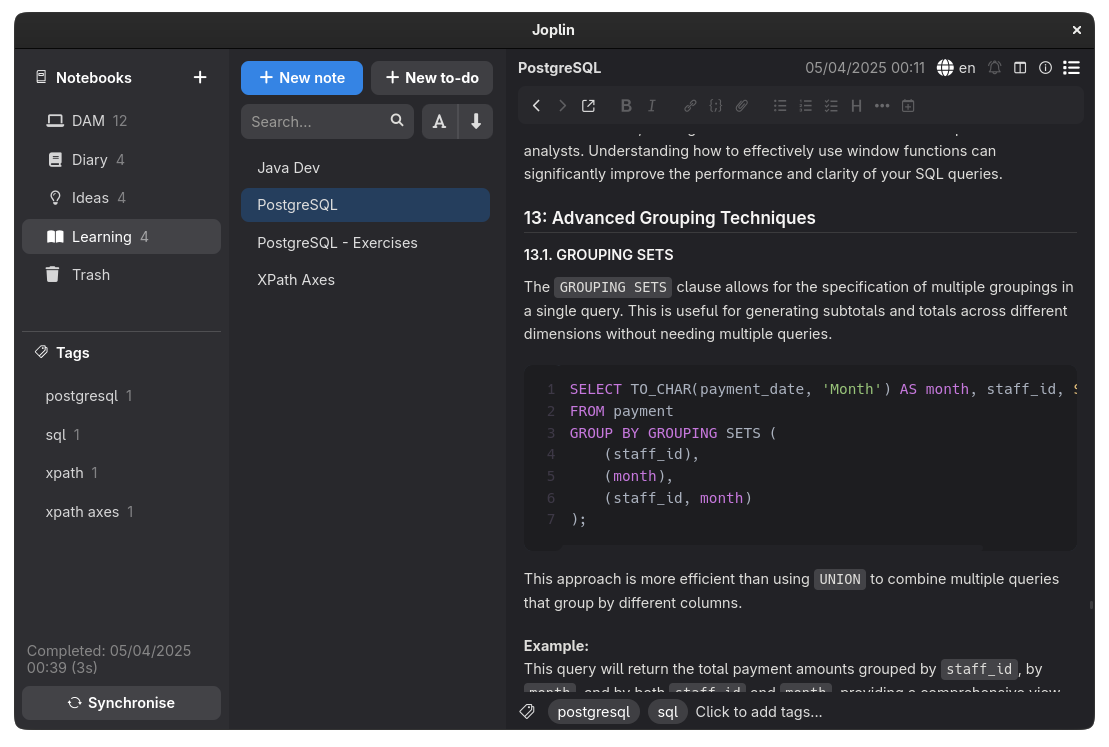
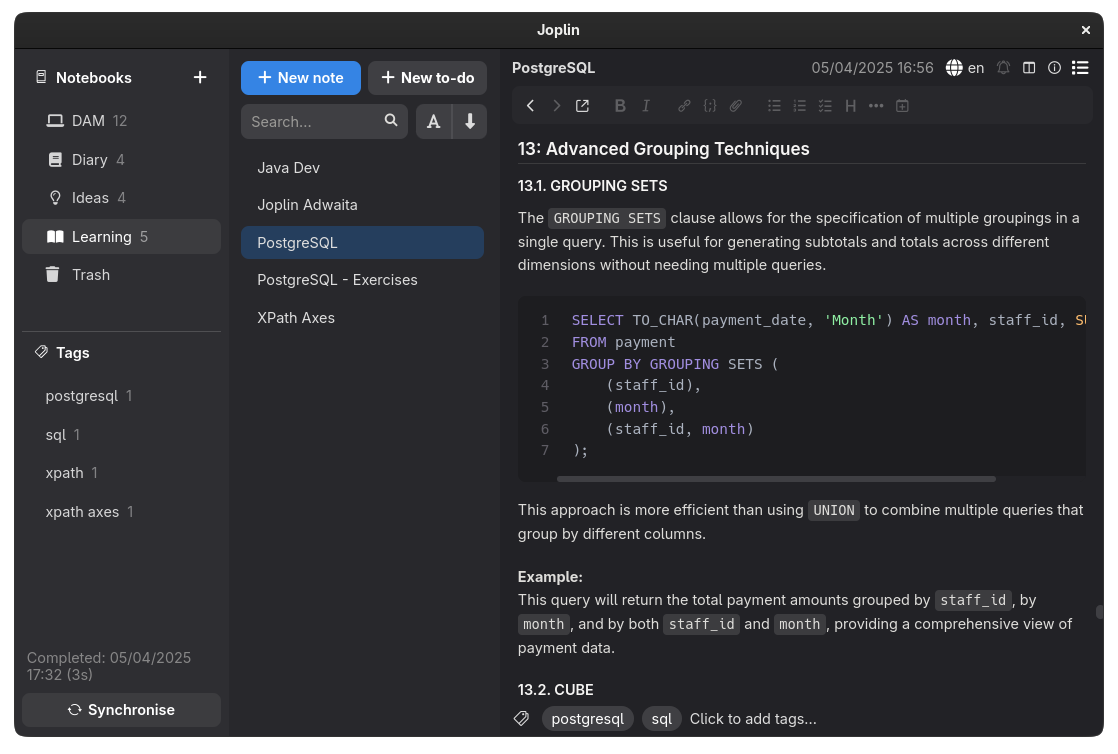
Apply colors to elements in code blocks. Fix scrollbar visibility issues

diff --git a/userchrome.css b/userchrome.css
@@ -3,11 +3,13 @@
 :root {
     /* Colors */
     --blue-1: #99c1f1;
+    --teal-1: #94d9cb;
     --green-1: #8ff0a4;
     --yellow-1: #f9f06b;
     --orange-1: #ffbe6f;
     --red-1: #f66151;
     --purple-1: #dc8add;
+    --lavender-1: #a18ee0;
 
     --light-1: #ffffff;
     --light-2: #f6f5f4;
@@ -56,8 +58,8 @@
 
     --btn-separator-color: hsl(240, 2.5%, 31.37%);
 
-    --btn-bg-color-light: hsl(240, 2.9%, 27.06%);
-    --btn-bg-color-light-hover: hsl(240, 2.9%, 24.06%);
+    --btn-bg-color-light: hsl(240, 2.9%, 24.06%);
+    --btn-bg-color-light-hover: hsl(240, 2.9%, 27.06%);
     --btn-bg-color-light-selected-hover: hsl(240, 2.9%, 30.06%);
 
     /* Notes */
@@ -118,21 +120,20 @@
 
   /* Scrollbar */
   ::-webkit-scrollbar {
+    background-color: var(--window-bg-color) !important;
     width: 10px !important;
   }
 
   ::-webkit-scrollbar:hover {
     background-color: var(--sidebar-bg-color) !important;
   }
-
+  
   ::-webkit-scrollbar-thumb {
-    background-color: var(--btn-bg-color-light-hover) !important;
-    border-radius: var(--scroll-radius) !important;
-    border: 4px solid var(--window-bg-color) !important;
+    background: var(--btn-bg-color) !important;
   }
 
   ::-webkit-scrollbar-thumb:hover {
-    background-color: var(--btn-bg-color-light-selected-hover) !important;
+    background-color: var(--btn-bg-color-hover) !important;
     border: none !important;
   }
 
@@ -551,9 +552,9 @@
   * EDITOR (CODE MIRROR)
   *********************************************************************************/
 
+  /* Background */
   .cm-s-material-darker.CodeMirror {
     background-color: var(--window-bg-color) !important;
-    color: var(--green-1) !important;
   }
   
   /* Header */
@@ -578,33 +579,54 @@
   .cm-s-material-darker .cm-variable-2.cm-rm-list-token {
     color: var(--purple-1) !important;
   }
-  
-  /* Links (link) */
-  div.CodeMirror span.cm-url  {
+
+  /* Code Blocks */ 
+  /* Set code block background */
+  .cm-jn-code-block-background {
+    background-color: var(--view-bg-color) !important;
+  }
+
+  /* Apply colors to elements in code block */
+  .cm-keyword, .cm-atom {
+    color: var(--lavender-1) !important;
+  }
+
+  .cm-operator {
+    color: var(--red-1) !important;
+  }
+
+  .cm-number, .cm-string {
+    color: var(--green-1) !important; 
+  }
+
+  .cm-type {
     color: var(--blue-1) !important;
-    opacity: .7 !important;
-    text-decoration: underline !important;
+  }
+
+  .cm-variable {
+    color: var(--light-4) !important;
   }
   
-  /* Links (text) */
-  .cm-link-text {
+  .cm-def, .cm-type {
     color: var(--blue-1) !important;
   }
-  pre.CodeMirror-line {
-    color: var(--light-2) !important;
-    background-color: none !important;
+
+  .cm-meta {
+    color: var(--teal-1) !important;
   }
-  /* Image links in the editor */
-  span.cm-image {
-    color: var(--light-5) !important;
+
+  .cm-comment:not(.cm-jn-inline-code) {
+    color: var(--dark-1) !important;
+    background-color: transparent !important;
   }
-  /* Comment outside code block */
-  pre.CodeMirror-line span.cm-comment {
+
+  .cm-comment.cm-jn-inline-code {
+    background-color: var(--view-bg-color) !important;
+    border: none !important;
     color: var(--purple-1) !important;
-    background-color: none !important;
-    border: 0 !important;
+    font-family: var(--font-family-mono) !important;
   }
-  
+
   /* Codeblock selection color */
   /* For some reason, the CodeMirror selection does not pick the color correctly, left for now. */
   pre.CodeMirror-line span.CodeMirror-selectedtext {
@@ -632,20 +654,24 @@
     background: #6B6B6B !important;
   }
 
-  div.CodeMirror span.cm-comment.cm-jn-inline-code {
-    background-color: var(--view-bg-color) !important;
-    padding: auto 0 !important;
+  /* Links (link) */
+  div.CodeMirror span.cm-url  {
+    color: var(--blue-1) !important;
+    opacity: .7 !important;
+    text-decoration: underline !important;
   }
-
-  /* Code Block Text */
-  div.CodeMirror span.cm-comment:not(.cm-jn-inline-code) {
-    color: var(--purple-1) !important;
-    background-color: transparent !important;
+  
+  /* Links (text) */
+  .cm-link-text {
+    color: var(--blue-1) !important;
   }
-
-  /* Code block background */
-  div.CodeMirror div.cm-jn-code-block-background {
-    background-color: var(--view-bg-color) !important;
+  pre.CodeMirror-line {
+    color: var(--light-2) !important;
+    background-color: none !important;
+  }
+  /* Image links in the editor */
+  span.cm-image {
+    color: var(--light-5) !important;
   }
 
   /* Horizontal line */

diff --git a/userstyle.css b/userstyle.css
@@ -2,11 +2,13 @@
 :root {
     /* Colors */
     --blue-1: #99c1f1;
+    --teal-1: #94d9cb;
     --green-1: #8ff0a4;
     --yellow-1: #f9f06b;
     --orange-1: #ffbe6f;
     --red-1: #f66151;
     --purple-1: #dc8add;
+    --lavender-1: #a18ee0;
 
     --light-1: #ffffff;
     --light-2: #f6f5f4;
@@ -55,8 +57,8 @@
 
     --btn-separator-color: hsl(240, 2.5%, 31.37%);
 
-    --btn-bg-color-light: hsl(240, 2.9%, 27.06%);
-    --btn-bg-color-light-hover: hsl(240, 2.9%, 24.06%);
+    --btn-bg-color-light: hsl(240, 2.9%, 24.06%);
+    --btn-bg-color-light-hover: hsl(240, 2.9%, 27.06%);
     --btn-bg-color-light-selected-hover: hsl(240, 2.9%, 30.06%);
 
     /* Notes */
@@ -82,11 +84,7 @@
     font-size: var(--font-size) !important;
   }
   
-  p, ul, ol, li {
-    color: var(--light-3) !important;
-  }
-  
-  strong {
+  p, ul, ol, li, em, strong {
     color: var(--light-3) !important;
   }
   
@@ -98,21 +96,20 @@
   
   /* Scrollbar */
   ::-webkit-scrollbar {
+    background-color: var(--window-bg-color) !important;
     width: 10px !important;
   }
 
   ::-webkit-scrollbar:hover {
     background-color: var(--sidebar-bg-color) !important;
   }
-
+  
   ::-webkit-scrollbar-thumb {
-    background-color: var(--btn-bg-color-light-hover) !important;
-    border-radius: var(--scroll-radius) !important;
-    border: 4px solid var(--window-bg-color) !important;
+    background: var(--btn-bg-color) !important;
   }
 
   ::-webkit-scrollbar-thumb:hover {
-    background-color: var(--btn-bg-color-light-selected-hover) !important;
+    background-color: var(--btn-bg-color-hover) !important;
     border: none !important;
   }
   
@@ -236,6 +233,7 @@
 
   /* Set code block background, border radius, font style and spacing */
   .code-perfect-container pre.hljs {
+    background-color: var(--view-bg-color) !important;
     border-radius: var(--border-radius) !important;
     padding: 0 0 0 32px !important;
   }
@@ -248,7 +246,54 @@
   }
 
   .code-perfect-container pre.hljs code {
+    margin: 0 0 0 8px !important;
     padding: .5em .5em .17em !important;
+  }
+
+  .code-perfect-container pre.hljs ul.hljs-line-num {
+    border-radius: 0 !important;
+  }
+
+  /* Apply colors to elements in code block */
+  .code-perfect-container pre.hljs span {
+    color: var(--light-5) !important;
+  }
+
+  .code-perfect-container pre.hljs code.hljs .hljs-keyword,
+  .code-perfect-container pre.hljs code.hljs .hljs-literal {
+    color: var(--lavender-1) !important;
+  }
+
+  .code-perfect-container pre.hljs code.hljs .hljs-built_in,
+  .code-perfect-container pre.hljs code.hljs .hljs-title.function_ {
+    color: var(--orange-1) !important;
+  }
+
+  .code-perfect-container pre.hljs code.hljs .hljs-operator {
+    color: var(--red-1) !important;
+  }
+
+  .code-perfect-container pre.hljs code.hljs .hljs-string,
+  .code-perfect-container pre.hljs code.hljs .hljs-number{
+    color: var(--green-1) !important;
+  }
+
+  .code-perfect-container pre.hljs code.hljs .hljs-type,
+  .code-perfect-container pre.hljs code.hljs .hljs-title.class_ {
+    color: var(--blue-1) !important;
+  }
+
+  .code-perfect-container pre.hljs code.hljs .hljs-variable,
+  .code-perfect-container pre.hljs code.hljs .hljs-params {
+    color: var(--light-4) !important;
+  }
+
+  .code-perfect-container pre.hljs code.hljs .hljs-meta {
+    color: var(--teal-1) !important;
+  }
+
+  .code-perfect-container pre.hljs code.hljs .hljs-comment {
+    color: var(--dark-1) !important;
   }
 
   /* Adjust line number position and set color */ 
@@ -258,7 +303,7 @@
   }
 
   .code-perfect-container pre.hljs ul.hljs-line-num li {
-    color: var(--dark-3) !important;
+    color: var(--dark-2) !important;
   }
 
   /* Github Alerts (https://discourse.joplinapp.org/t/plugin-github-alerts/42902) */
